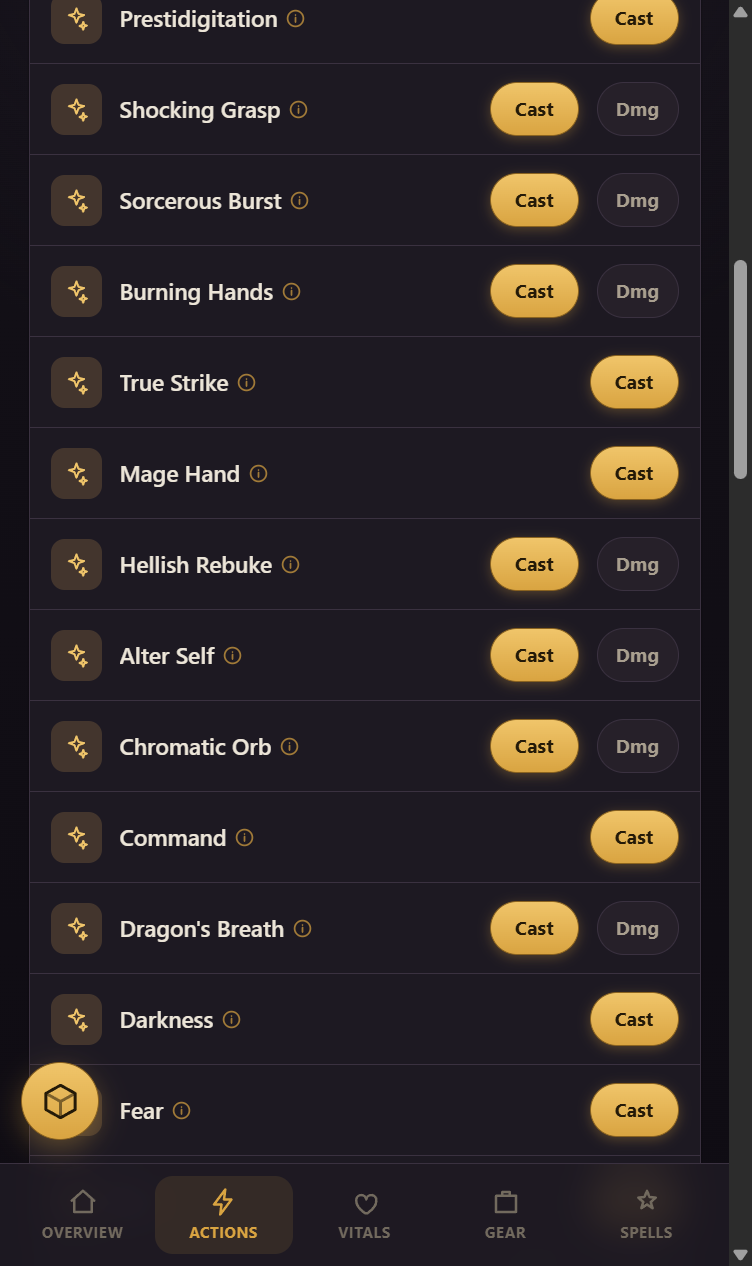
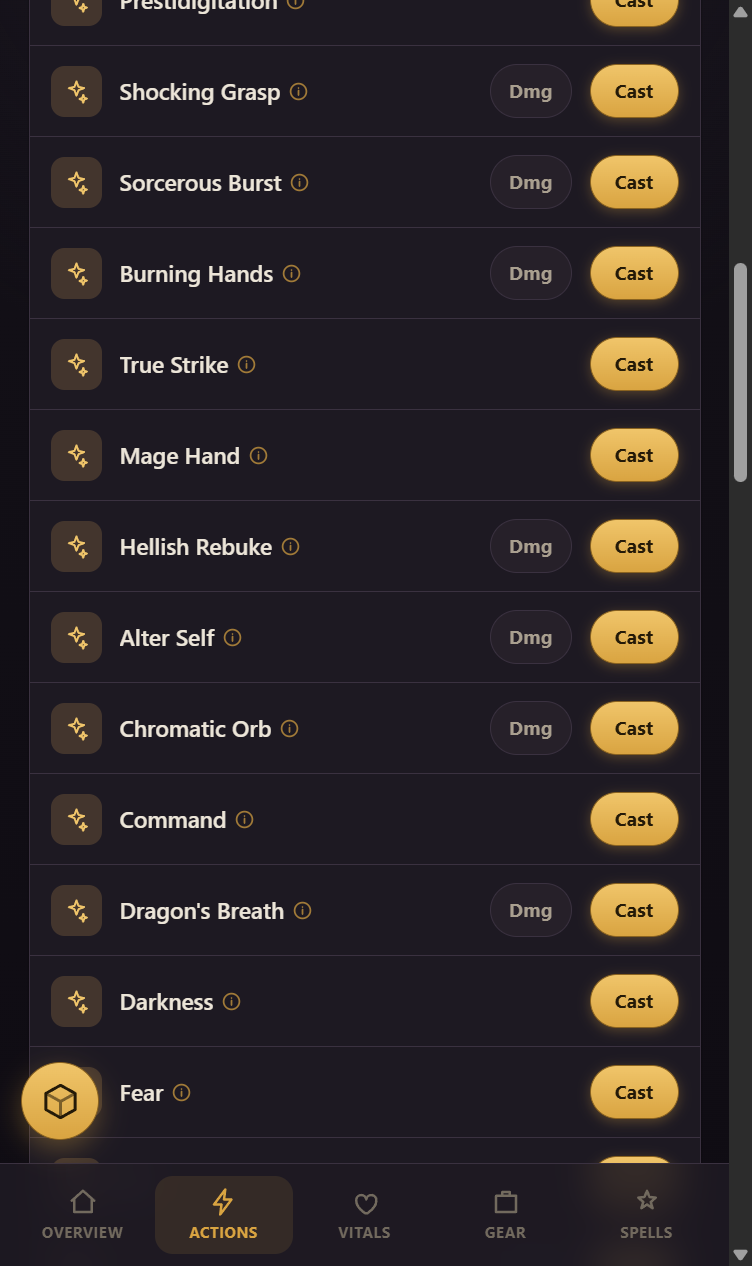
feat(web): right-align primary action buttons; tuck Dmg/toggles inward
Keep the yellow Cast/Attack/Use button flush-right on every action and list
row so it aligns in a consistent column. Secondary controls (Dmg, Prepared,
Attune) now render inward, to its left. Dmg stays conditional on the action
having a damage component. Refresh the affected walkthrough screenshots.

Changed region(s): [[0.0612, 0.0, 0.4282, 0.8934], [0.6423, 0.0, 0.9176, 0.9242], [0.0918, 0.8934, 0.1223, 0.9242]]

diff --git a/apps/web/app/components/SectionList.vue b/apps/web/app/components/SectionList.vue
@@ -75,16 +75,9 @@
           compact
           @step="(id, dir) => emit('step', id, dir)"
         />
-        <button
-          v-if="verbOf(item)"
-          class="act-btn"
-          type="button"
-          :class="{ pending: actionBusy === item.actionId }"
-          :disabled="readonly || actionBusy !== null"
-          @click="tap(item)"
-        >
-          {{ verbOf(item) }}
-        </button>
+        <!-- Outlined toggles (Prepared / Equipped / Attune) tuck inward so the
+             yellow primary button stays flush-right, consistent with the
+             Actions tab. -->
         <button
           v-if="toggleOf(item)"
           class="equip-btn"
@@ -106,6 +99,16 @@
           @click="item.attuneActionId && emit('action', item.attuneActionId)"
         >
           {{ attuneOf(item)!.attuned ? 'Attuned' : 'Attune' }}
+        </button>
+        <button
+          v-if="verbOf(item)"
+          class="act-btn"
+          type="button"
+          :class="{ pending: actionBusy === item.actionId }"
+          :disabled="readonly || actionBusy !== null"
+          @click="tap(item)"
+        >
+          {{ verbOf(item) }}
         </button>
       </div>
       <p v-if="rows.length === 0" class="empty-hint">Empty</p>

diff --git a/apps/web/app/components/SectionActions.vue b/apps/web/app/components/SectionActions.vue
@@ -35,15 +35,9 @@
           <span v-else class="row-label">{{ action.label }}</span>
           <span v-if="noSlots(action)" class="row-sub">No spell slots left</span>
         </div>
-        <button
-          class="act-btn"
-          type="button"
-          :class="{ pending: actionBusy === action.id }"
-          :disabled="readonly || actionBusy !== null || noSlots(action)"
-          @click="emit('action', action.id)"
-        >
-          {{ group.verb }}
-        </button>
+        <!-- Dmg rides inward (left of the primary button) and only shows when the
+             action has a damage component, so the yellow Cast/Attack/Use button
+             stays flush-right and aligned across every row. -->
         <button
           v-if="(group.id === 'attacks' || group.id === 'spells') && damageOf(action)"
           class="act-btn secondary"
@@ -53,6 +47,15 @@
           @click="emit('action', damageOf(action)!.id)"
         >
           Dmg
+        </button>
+        <button
+          class="act-btn"
+          type="button"
+          :class="{ pending: actionBusy === action.id }"
+          :disabled="readonly || actionBusy !== null || noSlots(action)"
+          @click="emit('action', action.id)"
+        >
+          {{ group.verb }}
         </button>
       </div>
     </div>